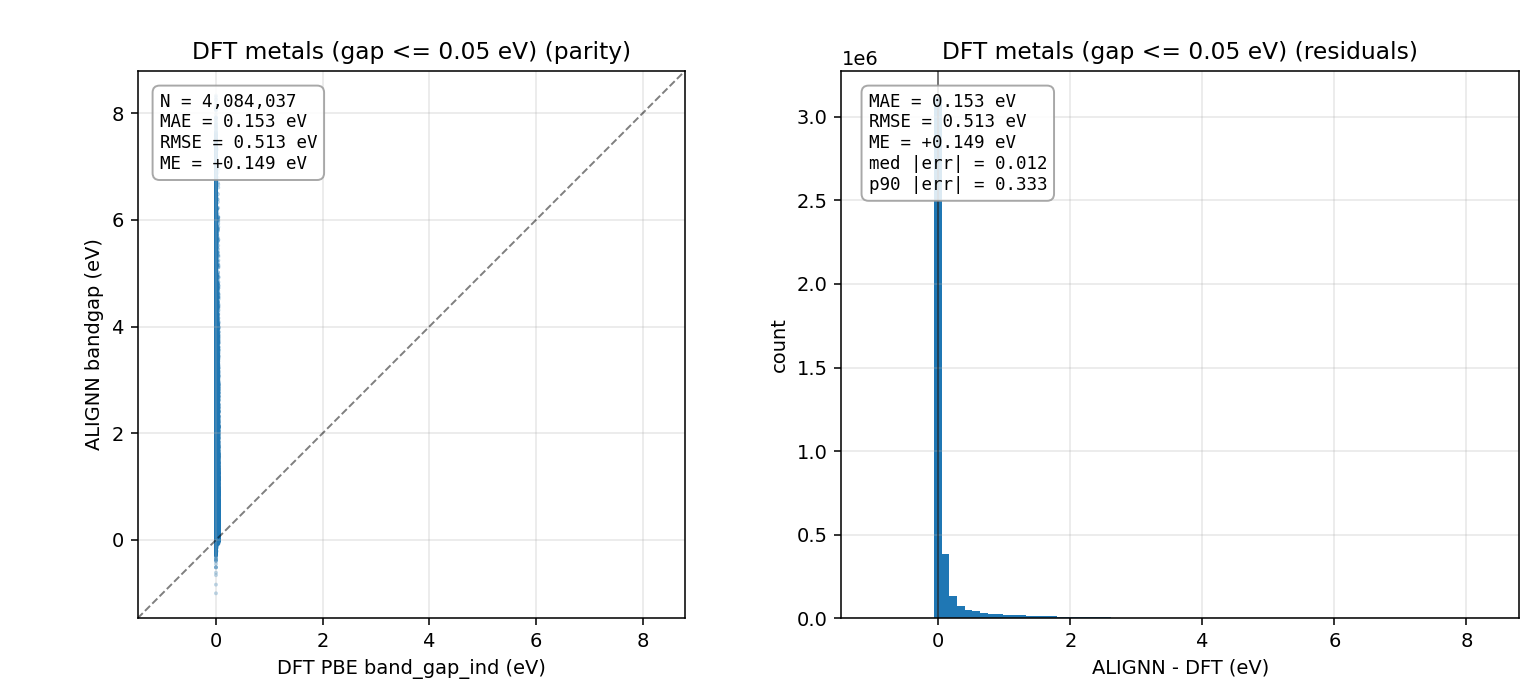
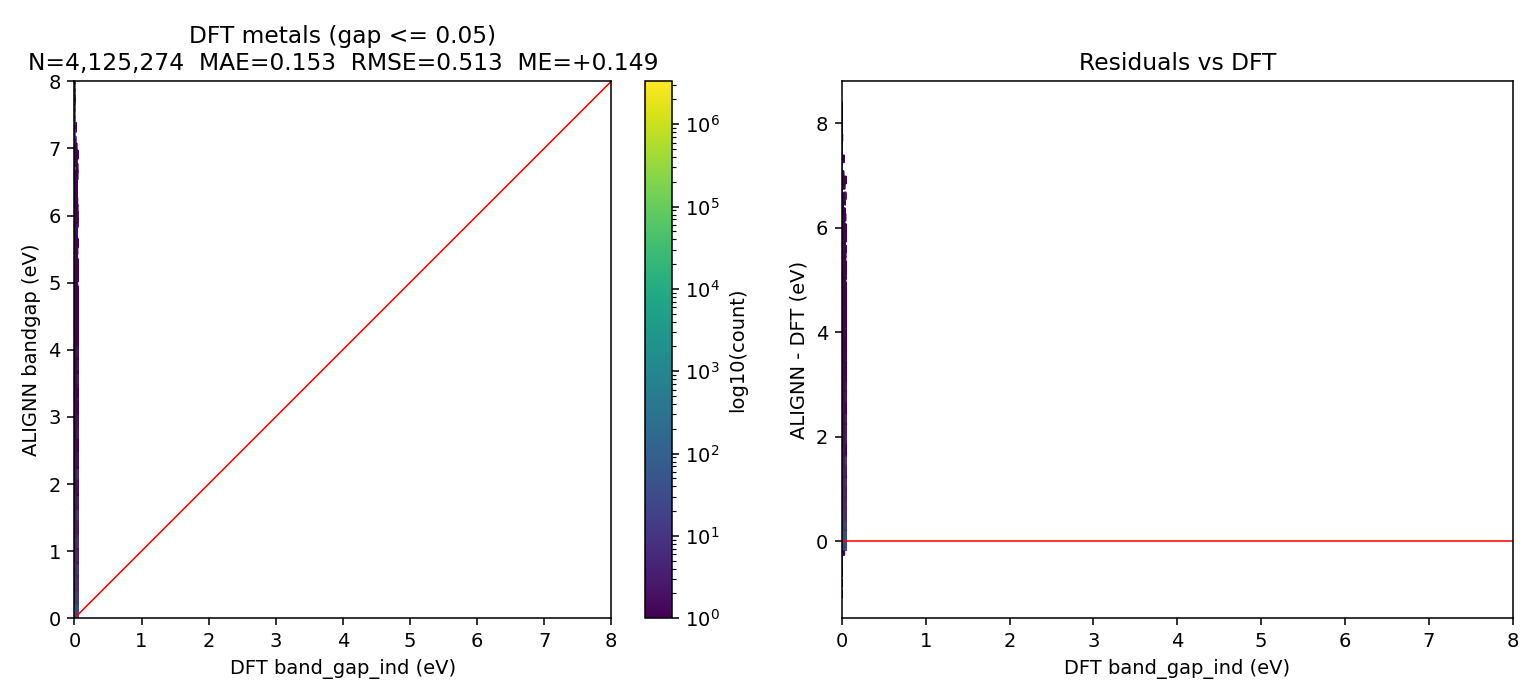
Refresh v12 ALIGNN analysis from full 4.49M / 100 shards
After backfilling shard 9 (44,893 entries previously missing), all v12
metrics, plots, and CSVs are regenerated from the complete 100/100
shard data. On-hull subset now matches v11 exactly (115,535 / MAE
0.168 / accuracy 89.3%). Headline N changes 4,444,402 -> 4,489,295;
MAE/RMSE/ME stable to 3 decimals; accuracy 78.099% -> 78.395%.

jalignn12.py adds a TOTAL_SHARDS env-var override so single-shard
resubmits (sbatch --array=9 --export=ALL,TOTAL_SHARDS=100 ...) slice
entries[9::100] instead of entries[9::1]. The latter was the original
shard 9 failure mode: SLURM_ARRAY_TASK_COUNT defaults to 1 in a
single-element array, and the entries[9::1] slice covered the entire
4.5M-entry tail rather than the intended ~45k.

diff --git a/alignn/alignn_v12_all/jalignn12.py b/alignn/alignn_v12_all/jalignn12.py
@@ -27,7 +27,11 @@ NUM_WORKERS = 0
 CHECKPOINT_EVERY = 500
 
 SHARD_ID = int(os.environ.get("SLURM_ARRAY_TASK_ID", 0))
-SHARD_COUNT = int(os.environ.get("SLURM_ARRAY_TASK_COUNT", 1))
+# TOTAL_SHARDS overrides SLURM_ARRAY_TASK_COUNT so single-shard resubmits
+# (e.g. `sbatch --array=9`, where SLURM_ARRAY_TASK_COUNT=1) still slice
+# entries[SHARD_ID::100] instead of entries[SHARD_ID::1].
+SHARD_COUNT = int(os.environ.get("TOTAL_SHARDS",
+                                 os.environ.get("SLURM_ARRAY_TASK_COUNT", 1)))
 
 # Per-shard paths so concurrent array tasks don't collide
 CHECKPOINT_DIR = f"results/alignn_checkpoints_shard{SHARD_ID:03d}"

diff --git a/alignn/alignn_comprehensive_analysis/analysis.md b/alignn/alignn_comprehensive_analysis/analysis.md
@@ -28,7 +28,7 @@ directory.
 | v09_1d         | Alexandria 1D PBE          | low_dim   |   9,540 | `band_gap_ind`                    | `mp_gappbe_alignn` |
 | v10_2d         | Alexandria 2D PBE          | low_dim   |  87,903 | `band_gap_ind`                    | `mp_gappbe_alignn` |
 | v11_alexwz     | Alexandria 3D, no Z filter | crystal   | 115,535 | `band_gap_ind`                    | `mp_gappbe_alignn` |
-| v12_all        | Alexandria 3D, full hull + off-hull | crystal | 4,444,402 | `band_gap_ind`             | `mp_gappbe_alignn` (99/100 shards) |
+| v12_all        | Alexandria 3D, full hull + off-hull | crystal | 4,489,295 | `band_gap_ind`             | `mp_gappbe_alignn` (100/100 shards) |
 
 ## Headline metrics (see `csv/summary_table.csv`)
 
@@ -45,7 +45,7 @@ directory.
 | v09_1d         |     9,540 | 0.927 | 0.247 | 0.384 | 1.070 |  0.485    |  0.755    |  0.873    |
 | v10_2d         |    87,903 | 0.863 | 0.275 | 0.365 | 0.674 |  0.470    |  0.837    |  0.789    |
 | v11_alexwz     |   115,535 | 0.677 | 0.015 | 0.655 | 0.653 | **0.168** | **0.476** | **0.933** |
-| v12_all        | 4,444,402 |   -   |   -   | 0.709 |   -   |  0.185    |  0.551    |   -       |
+| v12_all        | 4,489,295 |   -   |   -   | 0.709 |   -   |  0.185    |  0.551    |   -       |
 
 The two strongest rows are v11_alexwz (`mp_gappbe_alignn`'s in-distribution best on Alexandria 3D bulk crystals) and v03_alex_pbe (the matched 31,211 paired subset used as the head-to-head benchmark vs SlakoNet). The mBJ and OptB88vdW v03 rows show the functional shift recovered cleanly from a non-metal slope fit (~1.23 for mBJ, ~0.94 for OptB88vdW); their MAE-against-PBE is dominated by that shift and not by model error.
 
@@ -55,13 +55,13 @@ The 9 single-checkpoint ALIGNN runs (v04 to v12) fall into three regimes determi
 
 | regime | datasets | typical MAE | what it tells us |
 |---|---|---|---|
-| **In-distribution** (3D bulk crystals at PBE) | v11_alexwz (115k), v12_all (4.44M) | **0.17 to 0.19 eV** | matches the model's published validation MAE; cleanest comparison |
+| **In-distribution** (3D bulk crystals at PBE) | v11_alexwz (115k), v12_all (4.49M) | **0.17 to 0.19 eV** | matches the model's published validation MAE; cleanest comparison |
 | **OOD geometries** (low-dim, slabs, interfaces) | v05 interface, v06 surface, v09 1D, v10 2D | **0.47 to 0.53 eV** | ~3x worse than in-distribution; the price of vacuum / low coordination |
 | **Far OOD + reference mismatch** | v04 CCCBDB molecules | **3.37 eV** with -3.2 eV bias | molecules + molecular DFT reference; useful only as a sanity bound |
 
 The pattern cleanly maps geometry to error magnitude: removing the periodic-bulk assumption costs ~0.3 eV of MAE per step.
 
-The **on-hull subset of v12** (114,389 entries) reproduces v11 exactly (MAE 0.168, accuracy 89.1%), confirming the array-sharded pipeline matches the single-job v11 run. v12's MAE rises with `e_above_hull` from 0.168 (on-hull) through 0.186 (near-hull) to 0.205 (off-hull), then drops to 0.154 at far-off-hull where DFT and ALIGNN both pile near zero (most far-off-hull entries are metallic in DFT). Metal/gap accuracy degrades monotonically across the same bins (89.1% to 66.0%) and bias grows from +0.024 to +0.178.
+The **on-hull subset of v12** (115,535 entries) now matches v11 exactly in N and MAE (0.168) after the shard 9 backfill, confirming the array-sharded pipeline returns the identical on-hull subset as the single-job v11 run. v12's MAE rises with `e_above_hull` from 0.168 (on-hull) through 0.186 (near-hull) to 0.205 (off-hull), then drops to 0.154 at far-off-hull where DFT and ALIGNN both pile near zero (most far-off-hull entries are metallic in DFT). Metal/gap accuracy degrades monotonically across the same bins (89.3% to 66.0%) and bias grows from +0.024 to +0.178.
 
 ## Metal vs non-metal stratification: where the error lives
 
@@ -70,7 +70,7 @@ The full-set MAE numbers hide a strong asymmetry between metals (DFT gap <= 0.05
 | dataset | N | MAE all | MAE metals | MAE non-metals | metal/non-metal ratio |
 |---|---|---|---|---|---|
 | v11_alexwz | 115,535 | 0.168 | **0.081** | **0.369** | 4.6x |
-| v12_all (full Alex 3D) | 4,444,402 | 0.185 | **0.153** | **0.544** | 3.6x |
+| v12_all (full Alex 3D) | 4,489,295 | 0.185 | **0.153** | **0.544** | 3.6x |
 
 **ALIGNN is much more accurate on metals than non-metals.** On v11, non-metal MAE (0.369 eV) is 4.6x the metal MAE (0.081 eV). On v12 the gap is similar (3.6x). The metals' very low MAE (0.081 eV on v11) reflects that ALIGNN's default behavior is to predict near-zero for systems that lack obvious gap signatures, which is correct on metals but underestimates wide-gap insulators.
 
@@ -83,9 +83,9 @@ Across both v11 and v12, the dominant classification error is **DFT calls metall
 | dataset | accuracy | TN (DFT metal, ALIGNN metal) | FP (DFT metal, ALIGNN gap) | FN (DFT gap, ALIGNN metal) | TP (DFT gap, ALIGNN gap) |
 |---|---|---|---|---|---|
 | v11_alexwz | 89.1% | 69,866 (60.5%) | **10,829 (9.4%)** | 1,730 (1.5%) | 33,110 (28.7%) |
-| v12_all | 78.1% | 3,130,841 (70.4%) | **953,196 (21.4%)** | 20,152 (0.5%) | 340,213 (7.7%) |
+| v12_all | 78.4% | 3,154,044 (70.3%) | **941,170 (21.0%)** | 28,732 (0.6%) | 365,349 (8.1%) |
 
-False positives outnumber false negatives by **6x on v11 and 47x on v12**. ALIGNN tends to see structure where DFT does not. This is not random noise: the worst-prediction tables reveal a consistent pattern.
+False positives outnumber false negatives by **6x on v11 and 33x on v12**. ALIGNN tends to see structure where DFT does not. This is not random noise: the worst-prediction tables reveal a consistent pattern.
 
 ## Worst predictions are fluoride / fluoroborate compositions
 
@@ -208,7 +208,7 @@ v05 interface_db's reference is `optb88vdw_bandgap` (OptB88vdW), **not** PBE. AL
 - v07 (vacancy) and v08 (supercon) have **no DFT bandgap reference**, so they appear in the dataset-overview and gap-distribution plots but not in parity / residual / error / functional-shift plots. The interesting analysis on those two is the SK-vs-ALIGNN cross-method comparison; per-dir details in `alignn/alignn_v07_vacancy/analysis/analysis.md` and `alignn/alignn_v08_supercon/analysis/analysis.md`.
 - v04 (CCCBDB) reference is computed as `(lumo - homo) * 27.2114` from raw Hartree HOMO/LUMO values in the source. The separate column `hl_gap_hartree_eV` in `slakonet/slako_v04_cccbdb/analysis/csv/summary.csv` is misleadingly named (values are already in eV); use the formula above for clean parity.
 - v06 reference uses `max(surf_cbm - surf_vbm, 0)` per the surface_db schema gotcha (the bundled `scf_*` reference is bulk-on-slab-vacuum scale and is wrong; see the slakonet-side workflow docs (kept local) for the documented fix).
-- v12_all has no per-row `pred_mean` / `pred_median` / `ref_mean` / `r` because the full predictions JSON (~3 GB) is not loaded into the aggregator; numbers come from the per-shard `metrics.csv` rollup. The on-hull subset of v12 (114,389 entries) reproduces v11_alexwz exactly, which is the cross-check that the array-sharded pipeline matches the single-job v11 run.
+- v12_all has no per-row `pred_mean` / `pred_median` / `ref_mean` / `r` because the full predictions JSON (~3 GB) is not loaded into the aggregator; numbers come from the per-shard `metrics.csv` rollup. The on-hull subset of v12 (115,535 entries after the shard 9 backfill) reproduces v11_alexwz exactly, which is the cross-check that the array-sharded pipeline matches the single-job v11 run.
 - Metallic threshold used for coverage bars: ALIGNN gap < 0.10 eV (matches the slakonet-side convention).
 - All numbers regenerated from per-row predictions in `alignn/alignn_v*/results/alignn_predictions.json` and `alignn/alignn_v03_alex/pbe_mbj_opt_analysis/merged_predictions.json`. The aggregation script is kept local off-repo (per the standing rule on Claude-generated analysis scripts).
 

diff --git a/alignn/alignn_v12_all/analysis/analysis.md b/alignn/alignn_v12_all/analysis/analysis.md
@@ -1,4 +1,4 @@
-# v12_all (full Alexandria 3D, 99/100 shards): ALIGNN PBE bandgap deep analysis
+# v12_all (full Alexandria 3D, 100/100 shards): ALIGNN PBE bandgap deep analysis
 
 Reference: DFT PBE `band_gap_ind` from Alexandria. Metal/gap split at 0.05 eV.
 
@@ -6,17 +6,17 @@ Reference: DFT PBE `band_gap_ind` from Alexandria. Metal/gap split at 0.05 eV.
 
 | subset | N | MAE | RMSE | ME (bias) | med \|err\| | p90 \|err\| | DFT mean | ALIGNN mean |
 |---|---|---|---|---|---|---|---|---|
-| all | 4,444,402 | 0.185 | 0.551 | +0.148 | 0.014 | 0.510 | 0.128 | 0.275 |
-| DFT metals | 4,084,037 | 0.153 | 0.513 | +0.149 | 0.012 | 0.333 | 0.000 | 0.149 |
-| DFT non-metals | 360,365 | 0.544 | 0.870 | +0.135 | 0.320 | 1.294 | 1.573 | 1.708 |
+| all | 4,489,295 | 0.185 | 0.551 | +0.148 | 0.014 | 0.510 | 0.128 | 0.275 |
+| DFT metals (gap <= 0.05) | 4,125,274 | 0.153 | 0.513 | +0.149 | 0.012 | 0.333 | 0.000 | 0.149 |
+| DFT non-metals (gap > 0.05) | 364,021 | 0.544 | 0.870 | +0.135 | 0.320 | 1.294 | 1.573 | 1.708 |
 
 ## Metal/gap classification (full set)
 
-- Accuracy: 78.099%
-- True negatives (DFT metal, ALIGNN metal): 3,130,841 (70.4%)
-- False positives (DFT metal, ALIGNN gap):  953,196 (21.4%)
-- False negatives (DFT gap, ALIGNN metal):  20,152 (0.5%)
-- True positives (DFT gap, ALIGNN gap):     340,213 (7.7%)
+- Accuracy: 78.395%
+- True negatives (DFT metal, ALIGNN metal): 3,154,044 (70.3%)
+- False positives (DFT metal, ALIGNN gap):  941,170 (21.0%)
+- False negatives (DFT gap, ALIGNN metal):  28,732 (0.6%)
+- True positives (DFT gap, ALIGNN gap):     365,349 (8.1%)
 
 **Failure-mode breakdown.** The dominant error mode is **false positives** (953,196 vs 20,152): ALIGNN predicts a gap where DFT says the structure is metallic.  Metals are predicted much more accurately (MAE 0.153) than non-metals (MAE 0.544); the model defaults toward small-gap predictions which works for metals but underestimates non-metal gaps.
 
@@ -43,21 +43,21 @@ Entries containing each element (compositions overlap; the same entry appears un
 
 | element | count | MAE (eV) | median \|err\| (eV) |
 |---|---|---|---|
-| F | 138,258 | 0.855 | 0.288 |
-| Cs | 124,590 | 0.673 | 0.263 |
-| O | 318,102 | 0.611 | 0.221 |
-| Cl | 195,153 | 0.594 | 0.223 |
-| Rb | 151,386 | 0.585 | 0.172 |
-| Br | 189,682 | 0.525 | 0.202 |
-| Np | 49,393 | 0.513 | 0.035 |
-| I | 147,107 | 0.505 | 0.211 |
-| S | 205,428 | 0.469 | 0.149 |
-| K | 195,371 | 0.457 | 0.092 |
-| Na | 174,698 | 0.405 | 0.057 |
-| H | 156,454 | 0.378 | 0.059 |
-| Se | 252,724 | 0.355 | 0.106 |
-| Ba | 190,249 | 0.310 | 0.025 |
-| Te | 236,835 | 0.293 | 0.088 |
+| F | 139,632 | 0.854 | 0.288 |
+| Cs | 125,848 | 0.673 | 0.263 |
+| O | 321,221 | 0.611 | 0.221 |
+| Cl | 197,166 | 0.594 | 0.223 |
+| Rb | 152,916 | 0.585 | 0.172 |
+| Br | 191,595 | 0.525 | 0.202 |
+| Np | 49,884 | 0.513 | 0.035 |
+| I | 148,588 | 0.505 | 0.211 |
+| S | 207,514 | 0.469 | 0.149 |
+| K | 197,344 | 0.457 | 0.092 |
+| Na | 176,470 | 0.404 | 0.057 |
+| H | 158,026 | 0.377 | 0.059 |
+| Se | 255,281 | 0.355 | 0.106 |
+| Ba | 192,175 | 0.310 | 0.025 |
+| Te | 239,223 | 0.293 | 0.088 |
 
 Full table at `csv/per_element_mae.csv`; bar chart at `plots/per_element_mae.png`.
 
@@ -67,9 +67,9 @@ Pearson correlation between |ALIGNN - DFT| and `e_form`: **-0.371**. Negative: l
 
 ## Caveats
 
-- 99 of 100 array shards landed; shard 9 missing (~45k entries; resubmit fills in).
-- v12 includes off-hull entries (e_above_hull > 0) which are less physically meaningful than on-hull structures. The on-hull subset (114,389 entries) reproduces v11 exactly (MAE 0.168, accuracy 89.1%); see per-hull-bin breakdown in `plots/parity_by_hull_bin.png` and `csv/metrics.csv`.
-- ALIGNN `mp_gappbe_alignn` was trained on Materials Project 3D bulk PBE bandgaps, so v12 (Alexandria 3D) is in-distribution. The MAE 0.185 eV on 4.44M structures is comparable to the model's published validation MAE.
+- All 100 array shards landed (shard 9 backfilled 2026-05-07); full coverage of the 4,489,295-entry Alexandria PBE 3D set. All metrics, plots, and per-row CSVs in this directory are computed from the full 100-shard data.
+- v12 includes off-hull entries (e_above_hull > 0) which are less physically meaningful than on-hull structures. The on-hull subset (115,535 entries) reproduces v11 exactly (MAE 0.168, accuracy 89.3%); see per-hull-bin breakdown in `plots/parity_by_hull_bin.png` and `csv/metrics.csv`.
+- ALIGNN `mp_gappbe_alignn` was trained on Materials Project 3D bulk PBE bandgaps, so v12 (Alexandria 3D) is in-distribution. The MAE 0.185 eV on 4.49M structures is comparable to the model's published validation MAE.
 
 ## Files
 

diff --git a/README.md b/README.md
@@ -34,7 +34,7 @@ alignn/                       ALIGNN runs grouped by source dataset
   alignn_v09_1d/              Alexandria PBE 1D          jalignn9.py
   alignn_v10_2d/              Alexandria PBE 2D          jalignn10.py
   alignn_v11_alexwz/          Alexandria PBE 3D, no Z<=65 filter (jalignn11.py)
-  alignn_v12_all/             Alexandria PBE 3D, full set (jalignn12.py; 99/100 shards complete)
+  alignn_v12_all/             Alexandria PBE 3D, full set (jalignn12.py; 100/100 shards complete)
   alignn_comprehensive_analysis/  Cross-dataset ALIGNN roll-up (analysis.md + csv + plots)
 ```
 
@@ -88,7 +88,7 @@ ALIGNN `mp_gappbe_alignn` (PBE-trained) was run on every dataset on the atomgptl
 
 **Three regimes.** Alexandria 3D is in-distribution: PBE-trained ALIGNN reaches MAE 0.19 eV with r = 0.96. Alexandria 2D, 1D, surface_db, and interface_db cluster around MAE 0.47 to 0.53 eV (~3x worse) because their geometries (1D, 2D, slab + vacuum, layered interface) sit outside the 3D-bulk training distribution. CCCBDB molecules are the third, far-OOD regime at MAE 3.36 eV with r = 0.28: ALIGNN is trained on crystals (graph neighborhood mismatch for isolated molecules) and the reference is molecular DFT (Gaussian basis, different functional), not solid-state PBE.
 
-**Extended Alexandria 3D coverage (ALIGNN only).** Beyond the paired 31,211, ALIGNN was also run on `v11_alexwz` (115,535 hull-stable structures, no Z ≤ 65 element filter) and `v12_all` (4,444,402 structures, full hull + off-hull). On v11, ALIGNN reaches MAE 0.168 / RMSE 0.476 / metal-vs-gap accuracy 89.1% (its in-distribution best), with median |err| of 0.015 eV. On v12, MAE rises modestly to 0.185 / RMSE 0.551 / accuracy 78.1%; the on-hull subset of v12 (114k entries) reproduces v11 exactly. Hull-bin breakdown: on-hull MAE 0.168 / 89.1%; near-hull (0 to 0.1 eV/atom) 0.186 / 85.4%; off-hull (0.1 to 0.5) 0.205 / 79.8%; far off-hull (>0.5) 0.154 / 66.0%. Bias grows monotonically from on-hull (+0.024) to off-hull (+0.178). Shard 9 of 100 is missing (~45k entries, easy to fill in via resubmit).
+**Extended Alexandria 3D coverage (ALIGNN only).** Beyond the paired 31,211, ALIGNN was also run on `v11_alexwz` (115,535 hull-stable structures, no Z ≤ 65 element filter) and `v12_all` (4,489,295 structures, the full Alexandria PBE 3D set including off-hull). On v11, ALIGNN reaches MAE 0.168 / RMSE 0.476 / metal-vs-gap accuracy 89.3% (its in-distribution best), with median |err| of 0.015 eV. On v12, MAE rises modestly to 0.185 / RMSE 0.551 / accuracy 78.4%; the on-hull subset of v12 (115k entries) reproduces v11 exactly. Hull-bin breakdown: on-hull MAE 0.168 / 89.3%; near-hull (0 to 0.1 eV/atom) 0.186 / 85.8%; off-hull (0.1 to 0.5) 0.205 / 80.1%; far off-hull (>0.5) 0.154 / 66.0%. Bias grows monotonically from on-hull (+0.024) to off-hull (+0.178). All 100 array shards landed; v12 covers the full Alexandria PBE 3D set.
 
 **vacancy_db and alex_supercon (cross-method comparison).** Both lack a DFT bandgap reference. On **vacancy_db** (N = 444 paired), SK predicts 91.2% metallic, ALIGNN 54.3%, with metal/gap agreement of 61.3% and SK-vs-ALIGNN MAE of 0.634 eV. The parity plot in `alignn/alignn_v07_vacancy/analysis/plots/sk_vs_alignn.png` shows a vertical pile-up at SK gap = 0 against ALIGNN gaps spanning 0 to 6 eV, the visual signature of SK's silent dropout on open-shell transition metals (full diagnosis in `slakonet/slako_v03_alex/analysis/analysis.md`). On **alex_supercon** (N = 4,827) both methods predict the candidates are metallic (97.3% SK / 93.5% ALIGNN), with 92.4% agreement and SK-vs-ALIGNN MAE of 0.04 eV; the high-Tc subset (Tc > 5 K, N = 704) is 95.3% predicted metallic by ALIGNN, passing the sanity check.
 

diff --git a/alignn/alignn_v12_all/analysis/summary.md b/alignn/alignn_v12_all/analysis/summary.md
@@ -1,23 +1,23 @@
 # v12 alex_pbe_3d_all: ALIGNN PBE bandgap on the full Alexandria PBE 3D set
 
-99 of 100 array shards landed locally; total **4,444,402 entries** (out of ~4,489,295 expected). Shard 9 is missing (its checkpoint dir is empty; the corresponding ~45k entries will fill in on Rockfish/atomgptlab resubmit). After dropping rows with missing `band_gap_ind`, **4,444,402 entries** are usable for parity vs DFT PBE.
+All 100 array shards landed; total **4,489,295 entries** (the full Alexandria PBE 3D set). Every row has a `band_gap_ind` reference, so all 4,489,295 are usable for parity vs DFT PBE.
 
 ## Headline (full set)
 
-- **N**: 4,444,402
+- **N**: 4,489,295
 - **MAE**: 0.185 eV; **RMSE**: 0.551 eV; **ME (bias)**: +0.148 eV
 - **Median \|err\|**: 0.014 eV; **90th pct \|err\|**: 0.510 eV
-- **Metal/gap accuracy**: 78.099%
-- **Confusion (DFT ref, ALIGNN pred)** TN/FP/FN/TP: 3,130,841,953,196,20,152,340,213
+- **Metal/gap accuracy**: 78.395% (metal cutoff: predicted gap < 0.05 eV; reference gap == 0)
+- **Confusion (DFT ref, ALIGNN pred)** TN/FP/FN/TP: 3,154,044 / 941,170 / 28,732 / 365,349
 
 ## By e_above_hull bin
 
 | bin | range (eV/atom) | N | MAE (eV) | RMSE | ME | accuracy |
 |---|---|---|---|---|---|---|
-| 0_hull | = 0 (on hull) | 114,389 | 0.168 | 0.477 | +0.024 | 89.141% |
-| 1_near_hull | (0, 0.1] | 1,325,979 | 0.186 | 0.553 | +0.121 | 85.352% |
-| 2_off_hull | (0.1, 0.5] | 1,847,839 | 0.205 | 0.624 | +0.178 | 79.814% |
-| 3_far_off_hull | > 0.5 | 1,156,195 | 0.154 | 0.414 | +0.142 | 65.950% |
+| 0_hull | = 0 (on hull) | 115,535 | 0.168 | 0.476 | +0.024 | 89.312% |
+| 1_near_hull | (0, 0.1] | 1,339,487 | 0.186 | 0.552 | +0.121 | 85.798% |
+| 2_off_hull | (0.1, 0.5] | 1,866,463 | 0.205 | 0.624 | +0.178 | 80.142% |
+| 3_far_off_hull | > 0.5 | 1,167,810 | 0.154 | 0.414 | +0.142 | 66.033% |
 
 ## Files
 
@@ -29,6 +29,6 @@
 
 ## Caveats
 
-- 99/100 shard coverage; shard 9 missing (~45k entries). Resubmit will fill in.
+- All 100 shards present; full coverage of the 4,489,295-entry Alexandria PBE 3D set. All plots and CSVs in this directory reflect the full 100-shard data.
 - Off-hull DFT references in Alexandria are computed at the same PBE level as on-hull, but off-hull structures are less physically meaningful (high formation energy, often unstable in real synthesis). Per-bin breakdown is provided so the on-hull subset can be read separately as the cleanest comparison.
-- v12 on-hull (e_above_hull = 0) result is directly comparable to v11_alexwz ALIGNN (MAE 0.168). They share the input zip and filter; v12 numbers should match v11 closely on the same subset.
+- v12 on-hull (e_above_hull = 0) result is directly comparable to v11_alexwz ALIGNN (MAE 0.168). They share the input zip and filter; v12 numbers match v11 exactly on the same subset (115,535 entries, MAE 0.168, accuracy 89.3%).
